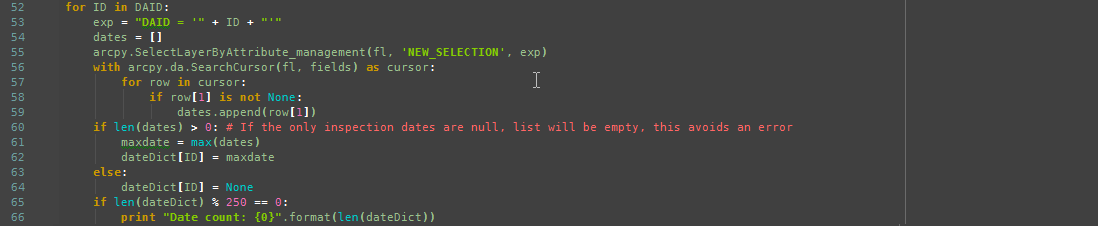
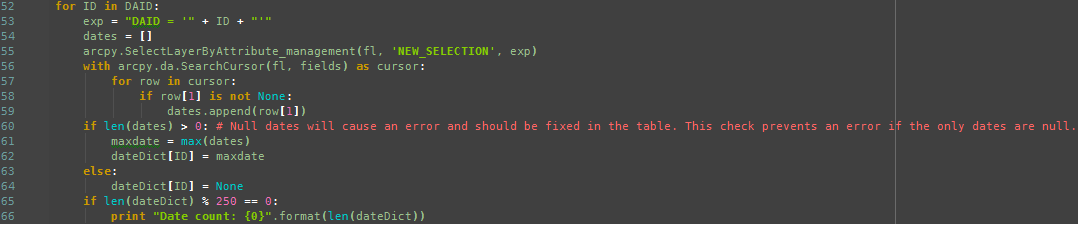
Updated CSS, populating content

diff --git a/scripts.html b/scripts.html
@@ -1,19 +1,16 @@
 <!DOCTYPE="html">
 <head>
 <link rel="stylesheet" type="text/css" href="style.css">
-<link rel="stylesheet" href="https://unpkg.com/leaflet@1.0.1/dist/leaflet.css" />
-	<meta charset="utf-8" />
-	<meta name="viewport" content="width=device-width, initial-scale=1.0">
 <title>David McClelland GIS</title>
-<!--<script src="https://unpkg.com/leaflet@1.0.1/dist/leaflet.js"></script>-->
-<script src="https://ajax.googleapis.com/ajax/libs/jquery/3.1.1/jquery.min.js">
 </script>
 </head>
 
 <body>
 <div class="section group">
-	<div class="col span_8_of_8">
-		<h1 style="text-align:center; background:#f7f4ed">David McClelland GIS</h1>
+	<div class="col span_1_of_8">
+	</div>
+	<div class="col span_7_of_8" style="background:#FCF7FF;">
+		<h1>David McClelland GIS</h1>
 	</div>
 </div>
 <div class="section group">
@@ -38,12 +35,18 @@
 		<h3>Table to Feature Class Join and Export</h3>
 		<a href="https://github.com/dbgmcclelland/dbgmcclelland.github.io/blob/master/CulvertJoin.py" target="_blank"><img style="align:center;" src="CulvertJoin.png">
 		<figcaption><i>Full code (opens in new tab)</i></figcaption></a>
-		<br>Lorem ipsum dolor sit amet, consectetur adipiscing elit, sed do eiusmod tempor incididunt ut labore et dolore magna aliqua. Ut enim ad minim veniam, quis nostrud exercitation ullamco laboris nisi ut aliquip ex ea commodo consequat. Duis aute irure dolor in reprehenderit in voluptate velit esse cillum dolore eu fugiat nulla pariatur. Excepteur sint occaecat cupidatat non proident, sunt in culpa qui officia deserunt mollit anim id est laborum.
+		<br>This script was created while working for the Ontario Ministry of Transportation(MTO) Eastern Region. The region maintains a database of culverts in Eastern Ontario, which require regular inspections. These inspections are stored in a table related to the main culvert feature class, and this information needs to be exported to an online map service. However, because the service does not support joined tables, it was necessary to create a script that will select the latest inspection and join that information to the shapefile that gets exported. This was not an easy task, since the feature class contains over 10,000 culverts, each culvert can have multiple associated inspections, and the fact that ArcMap does not support SQL subqueries. Ultimately, my solution was to populate a list of unique culvert IDs, extract the most recent inspection date, and then create a dictionary with the IDs as the key and the date as the dates as values. This finally allowed me to build an SQL query that would select the correct feature and its most recent inspection, and then export a shapefile from that selection.
+		<br>
+		<br><i>Note: lines 90-120 were taken from a prexisting export script for simpler features and were not written by me.</i>
 		<h3>Folder Renamer, Based on Attribute</h3>
 		<a href="https://github.com/dbgmcclelland/dbgmcclelland.github.io/blob/master/CulvertJoin.py" target="_blank"><img style="align:center;" src="FolderRenamer.png">
 		<figcaption><i>Full code (opens in new tab)</i></figcaption></a>
-		<br>Lorem ipsum dolor sit amet, consectetur adipiscing elit, sed do eiusmod tempor incididunt ut labore et dolore magna aliqua. Ut enim ad minim veniam, quis nostrud exercitation ullamco laboris nisi ut aliquip ex ea commodo consequat. Duis aute irure dolor in reprehenderit in voluptate velit esse cillum dolore eu fugiat nulla pariatur. Excepteur sint occaecat cupidatat non proident, sunt in culpa qui officia deserunt mollit anim id est laborum.
+		<br>This relatively straightforward script was also written to solve a problem related to culvert inspections. The region recently transitioned from an old culvert ID system (CVIDs) to a new one (DAIDs), which meant that external contractors were often using the old system. In this case, the contractor sent photos of culverts organized by the CVID. The script uses these folder names to find the associated DAID, and the OS module is subsequently used to rename the folders so that they could be properly imported to the existing folder structure.
 		</div>
+		<h3>Portfolio Website</h3>
+		<a href="https://github.com/dbgmcclelland/dbgmcclelland.github.io/blob/master/index.html" target="_blank"><img style="align:center;" src="html.png">
+		<figcaption><i>Full code (opens in new tab)</i></figcaption></a>
+		<br>This portfolio website was produced manually using HTML and CSS. While I am not a web designer or developer by trade, I am capable of producing functional web pages when required. At present, this website is completely static, but I am familiar with Javascript and web mapping techniques as well, and am currently working on developing a web app for a volunteer project using Leaflet.js. When complete, it will be available on this website as well.
 	</div>
 </div>
 </body>

diff --git a/maps.html b/maps.html
@@ -1,19 +1,16 @@
 <!DOCTYPE="html">
 <head>
 <link rel="stylesheet" type="text/css" href="style.css">
-<link rel="stylesheet" href="https://unpkg.com/leaflet@1.0.1/dist/leaflet.css" />
-	<meta charset="utf-8" />
-	<meta name="viewport" content="width=device-width, initial-scale=1.0">
 <title>David McClelland GIS</title>
-<!--<script src="https://unpkg.com/leaflet@1.0.1/dist/leaflet.js"></script>-->
-<script src="https://ajax.googleapis.com/ajax/libs/jquery/3.1.1/jquery.min.js">
 </script>
 </head>
 
 <body>
 <div class="section group">
-	<div class="col span_8_of_8">
-		<h1 style="text-align:center; background:#f7f4ed">David McClelland GIS</h1>
+	<div class="col span_1_of_8">
+	</div>
+	<div class="col span_7_of_8" style="background:#FCF7FF;">
+		<h1>David McClelland GIS</h1>
 	</div>
 </div>
 <div class="section group">
@@ -37,10 +34,12 @@
 		<div class="content" id="main">
 		<h3>Kingston Ferry Docks Bathymetry Map</h3>
 		<center><img style="align:center;" src="KingstonDocks.jpg"></center>
-		<br>Lorem ipsum dolor sit amet, consectetur adipiscing elit, sed do eiusmod tempor incididunt ut labore et dolore magna aliqua. Ut enim ad minim veniam, quis nostrud exercitation ullamco laboris nisi ut aliquip ex ea commodo consequat. Duis aute irure dolor in reprehenderit in voluptate velit esse cillum dolore eu fugiat nulla pariatur. Excepteur sint occaecat cupidatat non proident, sunt in culpa qui officia deserunt mollit anim id est laborum.
+		<br>This map was produced for the Ontario Ministry of Transportation (MTO), as a guide to the water depths around a ferry dock operated by the MTO in Kingston, Ontario. The data was initially in a raw format, delivered from an external contract as sonar readings. The data was then converted to a point layer, and a raster dataset was created using an Inverse Distance Weighted interpolator. The density of the points available from the sonar data ensured that the interpolation should have an extremely low level of error. Contours and a hillshade were created from the resulting raster dataset to allow for easier interpretation of the information.
+		<br>
+		<br><i>Note: The map layout was produced at a poster size, some detail was lost when the image was resized for the web</i>
 		<h3>Reptile Fence Map</h3>
 		<center><img style="align:center;" src="ReptileFences.png"></center>
-		<br>Lorem ipsum dolor sit amet, consectetur adipiscing elit, sed do eiusmod tempor incididunt ut labore et dolore magna aliqua. Ut enim ad minim veniam, quis nostrud exercitation ullamco laboris nisi ut aliquip ex ea commodo consequat. Duis aute irure dolor in reprehenderit in voluptate velit esse cillum dolore eu fugiat nulla pariatur. Excepteur sint occaecat cupidatat non proident, sunt in culpa qui officia deserunt mollit anim id est laborum.
+		<br>This is another map produced for the MTO, in this case a request from the Environmental section for a map of reptile fences along provincial highways in Eastern Ontario. The map was intended to be used in a presentation, so simplicity seemed to be the best approach. Only the most pertinent features were included, namely the highways, water features, and the fence locations themselves. Additionally, simple flat colours and symbols were chosen so that each feature could be easily distinguished and interpreted.
 		</div>
 	</div>
 </div>

diff --git a/style.css b/style.css
@@ -2,7 +2,7 @@
 /* CSS Document*/
 /*Define the body element's color*/
 body {
-	background: #f7f4ed;
+	background: #FCF7FF;
 	font-family: Calibri;
 }
 
@@ -43,37 +43,37 @@ p:mainMenu {
 
 .span_7_of_8 {
   	width: 87.25%;
-	background: #e6e6e5
+	background: #EBEFE8;
 }
 
 .span_6_of_8 {
   	width: 74.5%;
-	background: #e6e6e5
+	background: #EBEFE8;
 }
 
 .span_5_of_8 {
   	width: 61.75%;
-	background: #e6e6e5
+	background: #EBEFE8;
 }
 
 .span_4_of_8 {
   	width: 49%;
-	background: #e6e6e5
+	background: #EBEFE8;
 }
 
 .span_3_of_8 {
   	width: 36.25%;
-	background: #e6e6e5;
+	background: #EBEFE8;
 }
 
 .span_2_of_8 {
   	width: 23.5%;
-	background: #e6e6e5
+	background: #EBEFE8;
 }
 
 .span_1_of_8 {
   	width: 10.75%;
-	background: #e6e6e5
+	background: #EBEFE8;
 }
 
 .content {
@@ -114,7 +114,7 @@ p:mainMenu {
 	padding:11px 23px;
 	text-decoration:none;
 	text-shadow:0px -1px 0px #2b665e;
-	width: 70%;
+	width: 65%;
 	text-align: center;
 }
 .myButton:hover {

diff --git a/CulvertJoin.py b/CulvertJoin.py
@@ -25,7 +25,7 @@ print "Running initial join ........ "
 arcpy.AddJoin_management(CulvertsSewersLyr, "DAID", Culverts_and_Sewers_Inspection_Table, "DAID", "KEEP_ALL")
 print "Join complete, selecting unique DAIDs ........ "
 
-# Save copy of joined feature layer for export
+# Creates feature class from joined layer
 
 arcpy.CopyFeatures_management(CulvertsSewersLyr, "CulvertsSewersNew")
 fc = "CulvertsSewersNew"
@@ -57,7 +57,7 @@ for ID in DAID:
         for row in cursor:
             if row[1] is not None:
                 dates.append(row[1])
-    if len(dates) > 0: # If the only inspection dates are null, list will be empty, this avoids an error
+    if len(dates) > 0: # Null dates will cause an error and should be fixed in the table. This check prevents an error if the only dates are null.
         maxdate = max(dates)
         dateDict[ID] = maxdate
     else:
@@ -85,6 +85,8 @@ print "Exporting feature class to shapefile and MapGuide ....... "
 
 errorLog = r'W:\ENG\Geomatics\GIS\MapGuide_Data_Updates\log.txt'
 filePath = errorLog
+
+# Export to MapGuide
 try:
 ######################     Step 1 - Test to see if file exists on MapGuide Server (if so, delete)   ######################
     test = MapGuide_Folder
